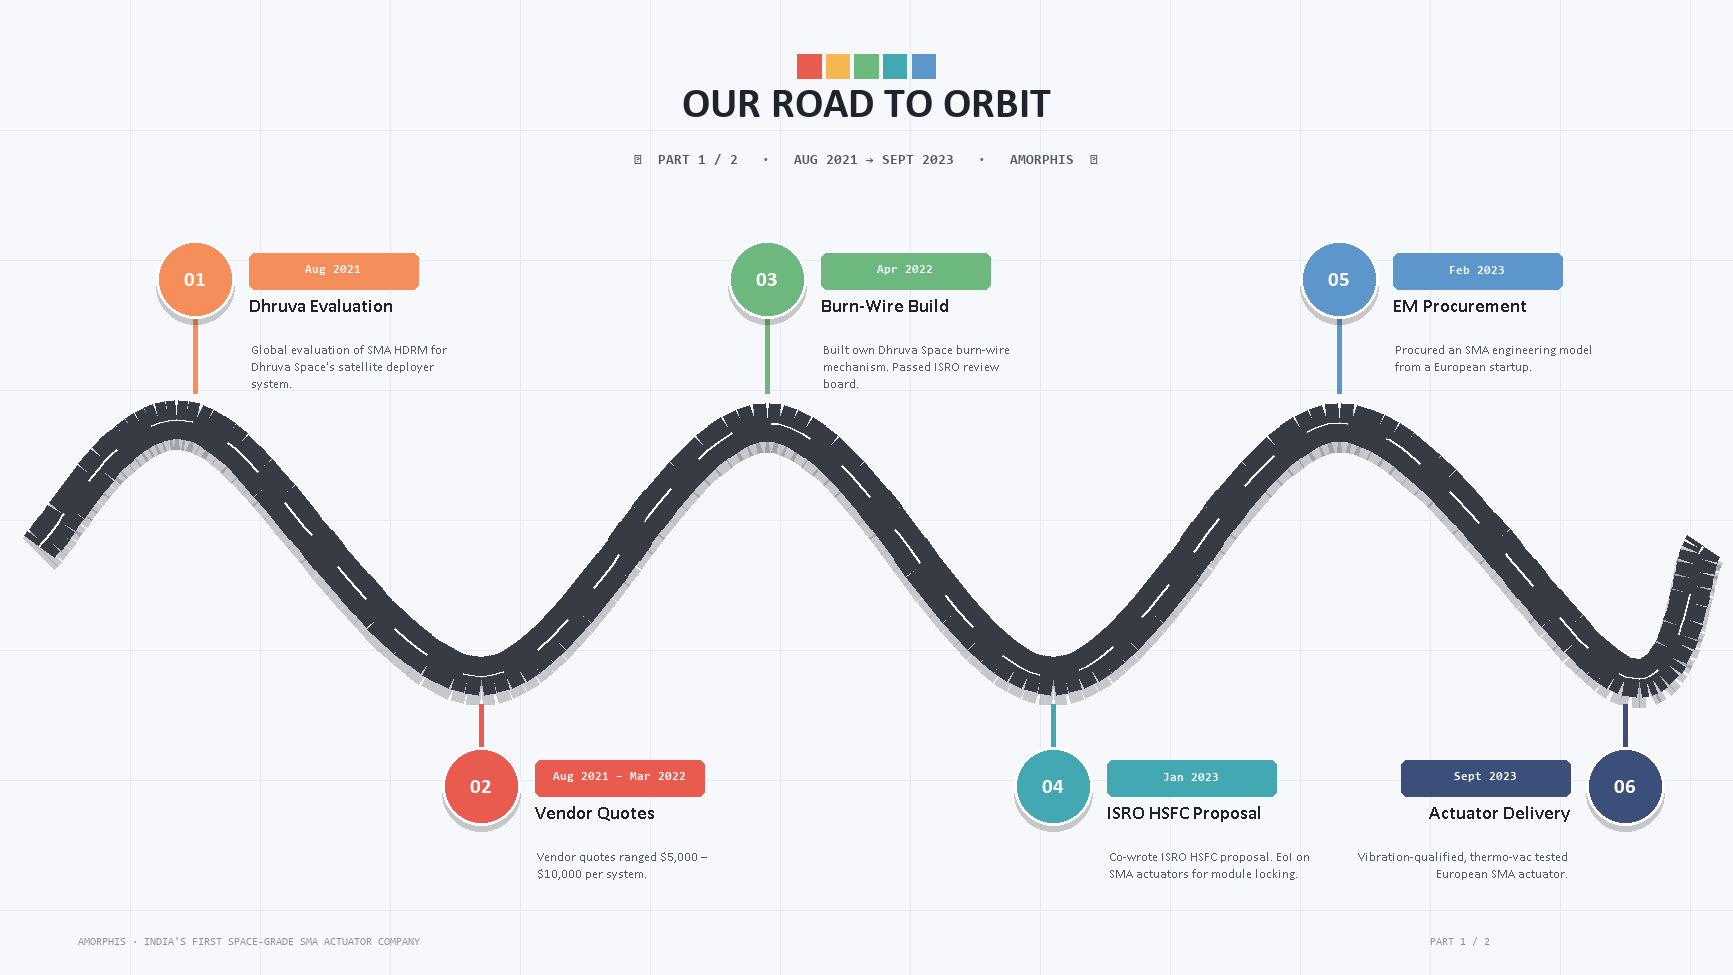
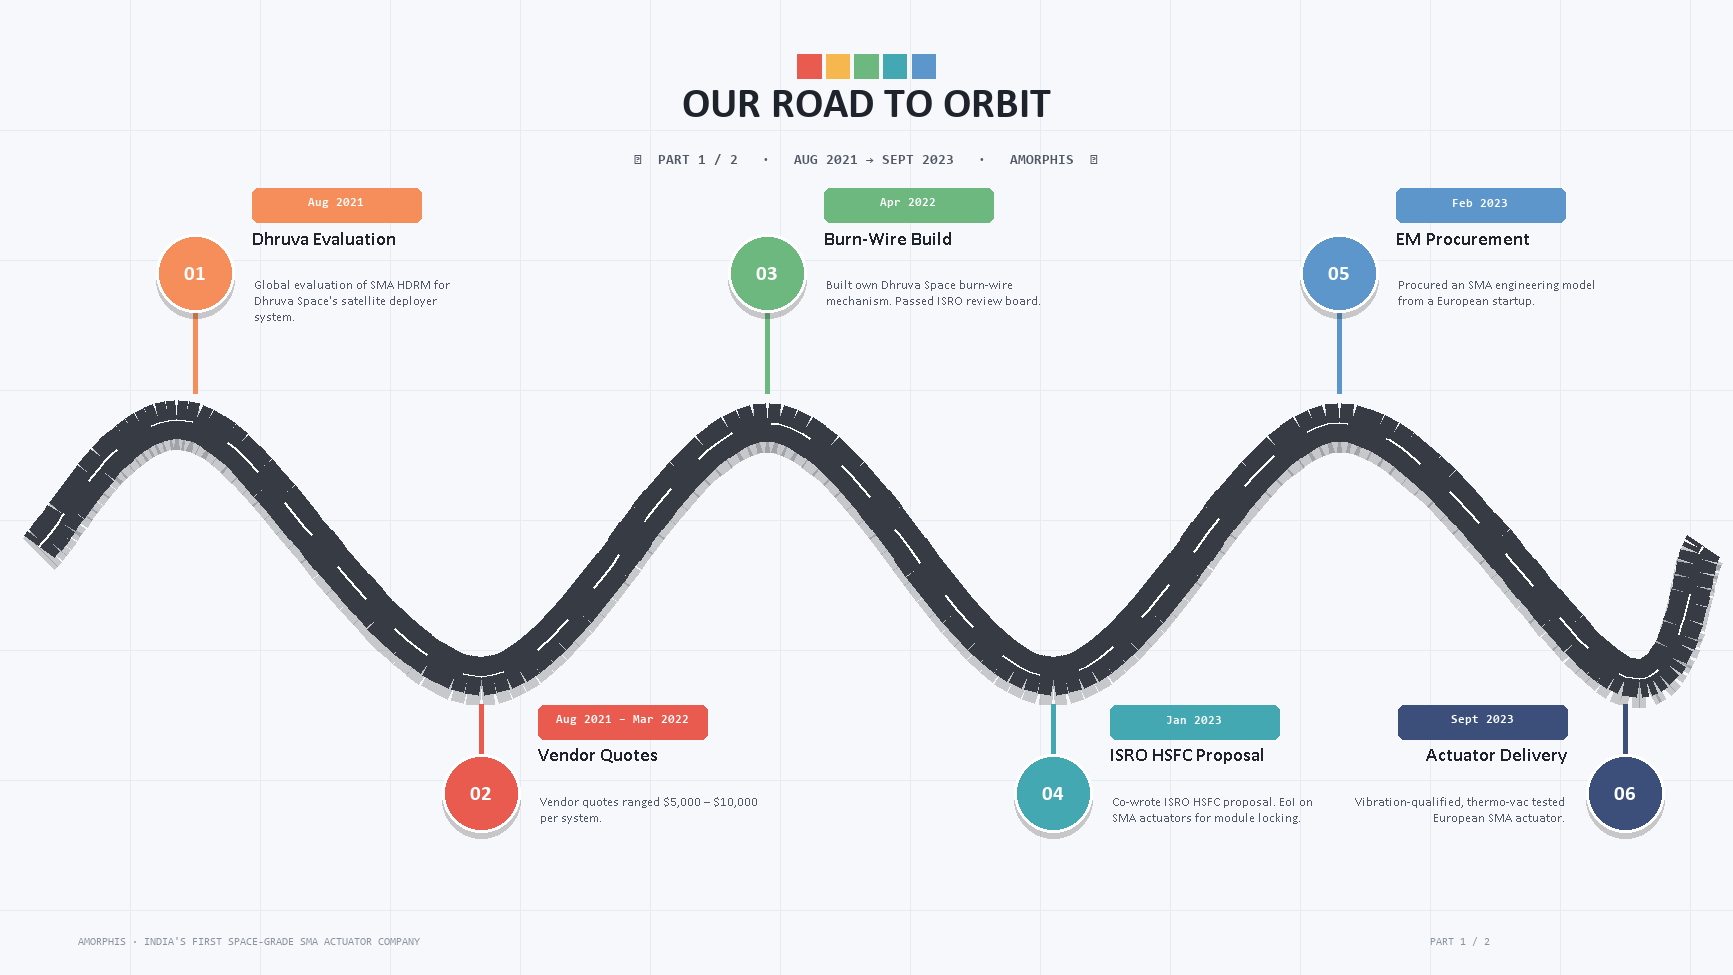
fix(pptx): eliminate text overlap — vertically centre cards on pin head
Root cause: text blocks were anchored at ty_pill = head_cy - 0.20 and
grew DOWNWARD, meaning above-pin descriptions crossed into the road
zone (y≈3.25), and below-pin text hit the slide footer.

Fix: each text block (pill + title + desc, total ≈1.35 in) is now
VERTICALLY CENTRED on head_cy, then clamped to stay within safe
margins (y 1.45 → 7.35). Text sits BESIDE the pin horizontally,
never above or below it, so it cannot cross the road zone regardless
of pin position.

diff --git a/scripts/build_timeline_pptx.py b/scripts/build_timeline_pptx.py
@@ -255,10 +255,11 @@ def build_slide(slide_milestones, pin_anchors, part_label, date_range, idx_start
 
     # ── Pins ───────────────────────────────────────
     PIN_R = 0.30
-    STEM_ABOVE = 1.10   # stem length for above-road pins
-    STEM_BELOW = 0.85   # shorter below-road stem so cards don't fall off slide
-    PILL_W = 1.30; PILL_H = 0.28
-    TEXT_W = 1.65
+    # Stem lengths: above pins need more room for text growing upward
+    STEM_ABOVE = 1.15
+    STEM_BELOW = 0.90
+    PILL_W = 1.30; PILL_H = 0.26
+    TEXT_W = 1.75   # slightly wider for more comfortable wrapping
 
     for i, (px, py, above) in enumerate(pin_anchors):
         col = PINS[i]
@@ -275,7 +276,7 @@ def build_slide(slide_milestones, pin_anchors, part_label, date_range, idx_start
         head_cy = stem_y1
         add_shadowed_oval(slide, px, head_cy, PIN_R, fill=col)
 
-        # Number inside the head — placed via a clean centred textbox over the circle
+        # Number centred inside pin head
         num_tb = slide.shapes.add_textbox(
             Inches(px - PIN_R), Inches(head_cy - 0.18),
             Inches(PIN_R * 2), Inches(0.36))
@@ -287,17 +288,36 @@ def build_slide(slide_milestones, pin_anchors, part_label, date_range, idx_start
         nr.font.name = "Calibri"; nr.font.size = Pt(15); nr.font.bold = True
         nr.font.color.rgb = ROAD_DASH
 
-        # Text card placement: prefer right of pin, flip if it'd run off-slide
-        text_right = (px + PIN_R + 0.12 + TEXT_W) <= 13.0
-        if text_right:
-            tx = px + PIN_R + 0.12; align = PP_ALIGN.LEFT
-        else:
-            tx = px - PIN_R - 0.12 - TEXT_W; align = PP_ALIGN.RIGHT
+        # ── Text card Y+X placement ────────────────
+        # Text sits BESIDE the pin (horizontal).  The ENTIRE block is
+        # vertically centred on head_cy so it never crosses the road or
+        # runs off the slide edges.
+        # Block order top→bottom: pill → title → description  (total ≈1.35 in)
+        BLOCK_H = PILL_H + 0.06 + 0.32 + 0.06 + 0.65
+        ty_pill  = head_cy - BLOCK_H / 2
+        ty_title = ty_pill + PILL_H + 0.06
+        ty_desc  = ty_title + 0.32 + 0.06
 
-        ty_pill = head_cy - 0.20
+        # Clamp so block never clips slide top (below header) or bottom
+        TOP_GUARD = 1.45
+        BOT_GUARD = 7.35
+        if ty_pill < TOP_GUARD:
+            d = TOP_GUARD - ty_pill
+            ty_pill += d; ty_title += d; ty_desc += d
+        if ty_desc + 0.65 > BOT_GUARD:
+            d = (ty_desc + 0.65) - BOT_GUARD
+            ty_pill -= d; ty_title -= d; ty_desc -= d
+
+        # X: prefer right of pin, flip left only if overflows slide
+        text_right = (px + PIN_R + 0.14 + TEXT_W) <= 13.15
+        if text_right:
+            tx = px + PIN_R + 0.14; align = PP_ALIGN.LEFT
+        else:
+            tx = px - PIN_R - 0.14 - TEXT_W; align = PP_ALIGN.RIGHT
+
+        pill_x = tx if align == PP_ALIGN.LEFT else (tx + TEXT_W - PILL_W)
 
         # Date pill
-        pill_x = tx if align == PP_ALIGN.LEFT else (tx + TEXT_W - PILL_W)
         pill = slide.shapes.add_shape(MSO_SHAPE.ROUNDED_RECTANGLE,
             Inches(pill_x), Inches(ty_pill),
             Inches(PILL_W), Inches(PILL_H))
@@ -313,13 +333,13 @@ def build_slide(slide_milestones, pin_anchors, part_label, date_range, idx_start
         pr.font.color.rgb = ROAD_DASH
         pr._r.get_or_add_rPr().set('spc', '60')
 
-        # Title
-        add_text(slide, tx, ty_pill + 0.34, TEXT_W, 0.34,
+        # Title (bold)
+        add_text(slide, tx, ty_title, TEXT_W, 0.34,
                  slide_milestones[i][1],
-                 font='Calibri', size=14, bold=True, color=INK, align=align)
+                 font='Calibri', size=13, bold=True, color=INK, align=align)
 
-        # Description
-        add_text(slide, tx, ty_pill + 0.70, TEXT_W, 0.95,
+        # Description — height 0.65 (~3 short lines at 9pt)
+        add_text(slide, tx, ty_desc, TEXT_W, 0.65,
                  slide_milestones[i][2],
                  font='Calibri', size=9.5, color=INK_2, align=align)
 

diff --git a/scripts/preview_timeline.py b/scripts/preview_timeline.py
@@ -174,10 +174,10 @@ def render_slide(milestones, pin_anchors, part_label, date_range, idx_start, out
 
     # Pins
     PIN_R = 0.30
-    STEM_ABOVE = 1.10
-    STEM_BELOW = 0.85
-    PILL_W = 1.30; PILL_H = 0.28
-    TEXT_W = 1.65
+    STEM_ABOVE = 1.15
+    STEM_BELOW = 0.90
+    PILL_W = 1.30; PILL_H = 0.26
+    TEXT_W = 1.75
 
     for j, (px, py, above) in enumerate(pin_anchors):
         col = PINS[j]
@@ -202,15 +202,32 @@ def render_slide(milestones, pin_anchors, part_label, date_range, idx_start, out
                   num, font=pin_num, fill=ROAD_DASH)
 
         # Text card
-        text_right = (px + PIN_R + 0.12 + TEXT_W) <= 13.0
-        if text_right:
-            tx = px + PIN_R + 0.12; align_right = False
-        else:
-            tx = px - PIN_R - 0.12 - TEXT_W; align_right = True
-        ty_pill = stem_y1 - 0.20
+        head_cy = stem_y1
 
-        # Pill
+        # Y: entire block centred on head_cy, clamped to slide bounds
+        BLOCK_H = PILL_H + 0.06 + 0.32 + 0.06 + 0.65
+        ty_pill  = head_cy - BLOCK_H / 2
+        ty_title = ty_pill + PILL_H + 0.06
+        ty_desc  = ty_title + 0.32 + 0.06
+
+        TOP_GUARD = 1.45; BOT_GUARD = 7.35
+        if ty_pill < TOP_GUARD:
+            d = TOP_GUARD - ty_pill
+            ty_pill += d; ty_title += d; ty_desc += d
+        if ty_desc + 0.65 > BOT_GUARD:
+            d = (ty_desc + 0.65) - BOT_GUARD
+            ty_pill -= d; ty_title -= d; ty_desc -= d
+
+        # X: prefer right, flip left near edge
+        text_right = (px + PIN_R + 0.14 + TEXT_W) <= 13.15
+        if text_right:
+            tx = px + PIN_R + 0.14; align_right = False
+        else:
+            tx = px - PIN_R - 0.14 - TEXT_W; align_right = True
+
         pill_x = tx if not align_right else (tx + TEXT_W - PILL_W)
+
+        # Date pill
         draw.rounded_rectangle((i(pill_x), i(ty_pill),
                                 i(pill_x + PILL_W), i(ty_pill + PILL_H)),
                                radius=int(0.05 * SCALE), fill=col)
@@ -225,25 +242,25 @@ def render_slide(milestones, pin_anchors, part_label, date_range, idx_start, out
         bb = draw.textbbox((0, 0), title, font=title_card)
         ttw = bb[2] - bb[0]
         if align_right:
-            draw.text((i(tx + TEXT_W) - ttw, i(ty_pill + 0.34)),
+            draw.text((i(tx + TEXT_W) - ttw, i(ty_title)),
                       title, font=title_card, fill=INK)
         else:
-            draw.text((i(tx), i(ty_pill + 0.34)),
+            draw.text((i(tx), i(ty_title)),
                       title, font=title_card, fill=INK)
 
-        # Description (wrapped)
+        # Description (wrapped, max 3 lines)
         body = milestones[j][2]
         max_w_px = i(TEXT_W) - 4
-        lines = wrap(draw, body, body_card, max_w_px)
-        line_h = body_card.size + 4
+        lines = wrap(draw, body, body_card, max_w_px)[:3]
+        line_h = body_card.size + 3
         for li, line in enumerate(lines):
             if align_right:
                 bb = draw.textbbox((0, 0), line, font=body_card)
                 lw = bb[2] - bb[0]
-                draw.text((i(tx + TEXT_W) - lw - 2, i(ty_pill + 0.70) + li * line_h),
+                draw.text((i(tx + TEXT_W) - lw - 2, i(ty_desc) + li * line_h),
                           line, font=body_card, fill=INK_2)
             else:
-                draw.text((i(tx) + 2, i(ty_pill + 0.70) + li * line_h),
+                draw.text((i(tx) + 2, i(ty_desc) + li * line_h),
                           line, font=body_card, fill=INK_2)
 
     # Footer
